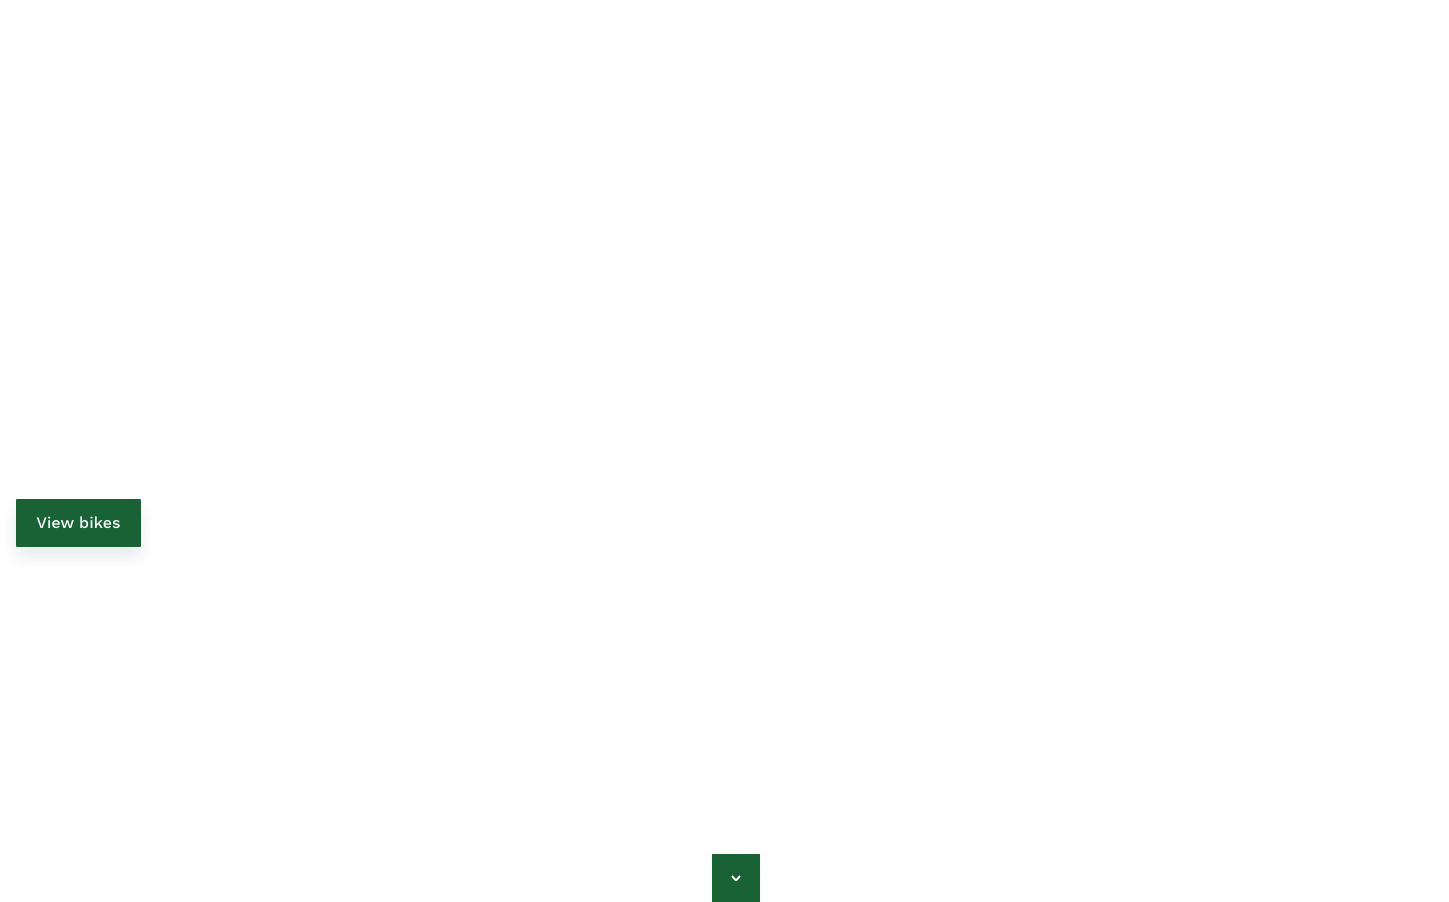
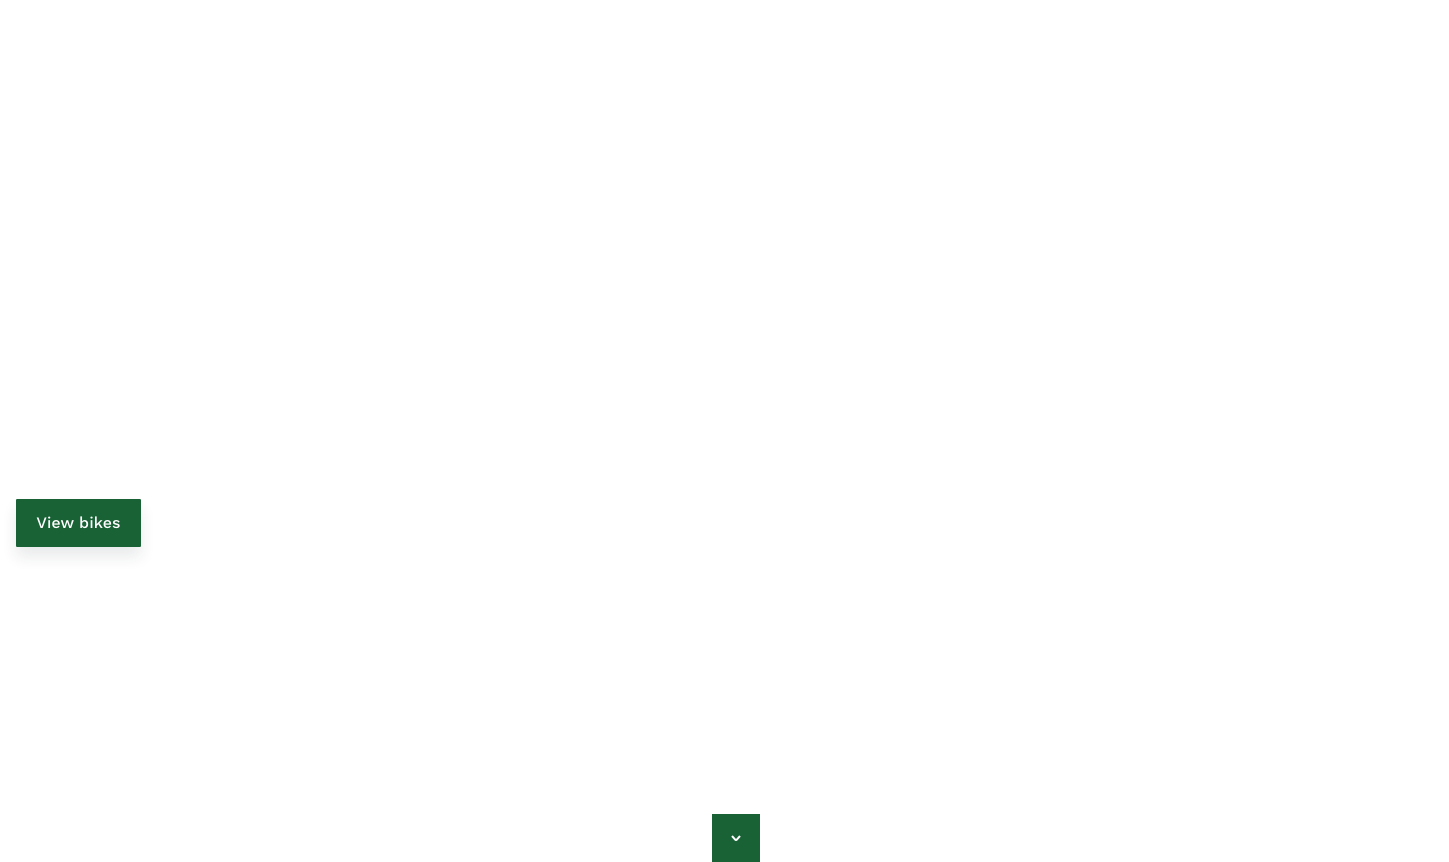
images

Changed region(s): [[0.0, 0.5429, 0.1242, 0.6334], [0.4969, 0.935, 0.528, 0.9652]]

diff --git a/styles.css b/styles.css
@@ -16,14 +16,14 @@
 .sk-ab.sk-home-3-0 {
 	background-color: #F3F3.FFFFFFFFFFF8F5;
 	width: 1680px;
-	height: 6797px;
+	height: 7246px;
 	display: block;
 	margin: 0 auto;
 }
 
 .sk-asset.sk-content {
 	width: 1681px;
-	height: 5847px;
+	height: 6296px;
 	left: 0px;
 	top: 950px;
 	background-image: url("images/content.png");
@@ -35,7 +35,7 @@ only screen and (-webkit-min-device-pixel-ratio: 2),
 only screen and (min-device-pixel-ratio: 2) {
 	.sk-asset.sk-content {
 		background-image: url("images/content@2x.png");
-		background-size: 1681px 5847px;
+		background-size: 1681px 6296px;
 	}
 }
 .sk-asset.sk-hero-img {
@@ -57,7 +57,7 @@ only screen and (min-device-pixel-ratio: 2) {
 }
 .sk-asset.sk-overlay {
 	width: 1440px;
-	height: 902px;
+	height: 862px;
 	left: 120px;
 	top: 48px;
 	background-image: url("images/overlay.png");
@@ -69,7 +69,7 @@ only screen and (-webkit-min-device-pixel-ratio: 2),
 only screen and (min-device-pixel-ratio: 2) {
 	.sk-asset.sk-overlay {
 		background-image: url("images/overlay@2x.png");
-		background-size: 1440px 902px;
+		background-size: 1440px 862px;
 	}
 }
 
